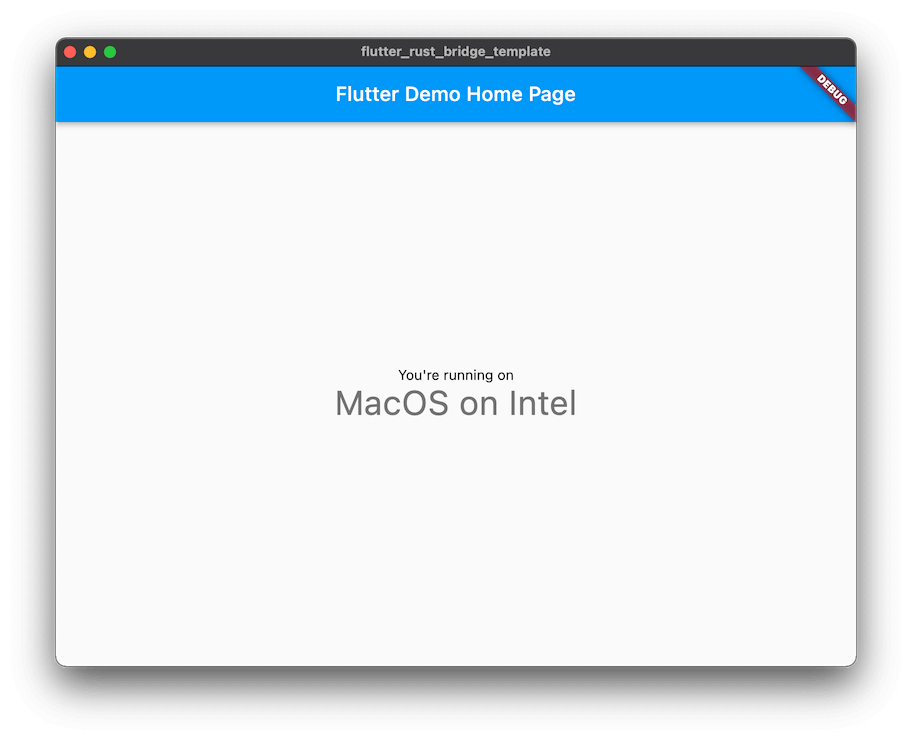
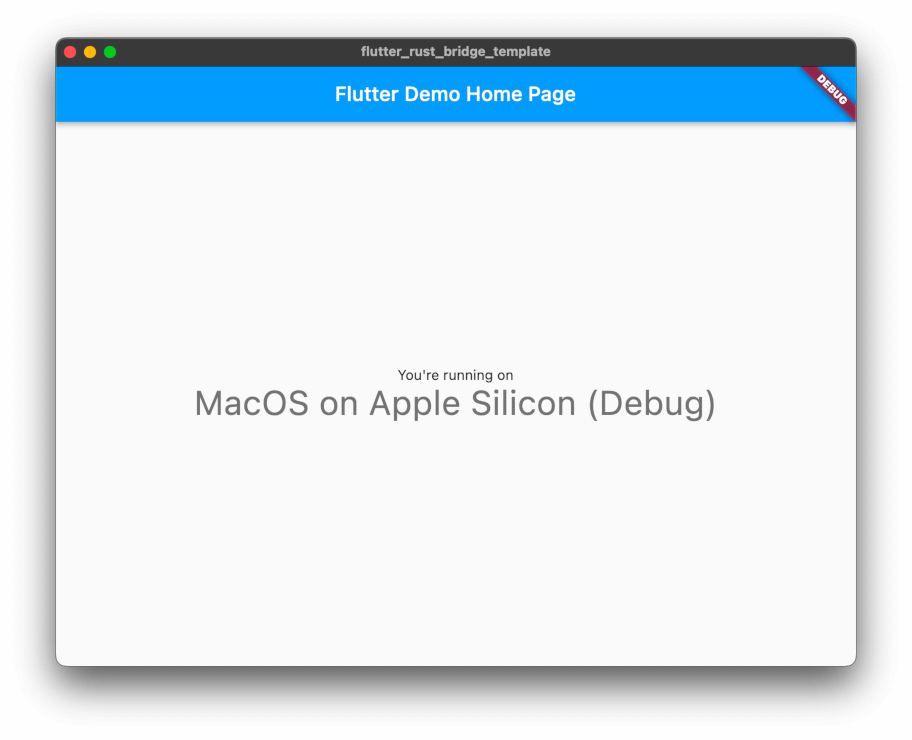
Update to match template

diff --git a/book/src/template/generate_finish.md b/book/src/template/generate_finish.md
@@ -4,6 +4,7 @@ With our new definition of `Platform` in place, we can rewrite the previous code
 of it! Here is an example of what you can do with freezed enums.
 
 In `lib/main.dart`:
+
 ```diff
 - final text = const {
 -   Platform.Android: 'Android',
@@ -30,7 +31,7 @@ In `native/src/api.rs`:
 ```diff
      } else if cfg!(target_os = "ios") {
          Platform::Ios
-     } else if cfg!(target_arch = "aarch64-apple-darwin") {
+     } else if cfg!(all(target_os = "macos", target_arch = "aarch64")) {
 -        Platform::MacApple
 +        Platform::MacOs("Apple Silicon".into())
      } else if cfg!(target_os = "macos") {
